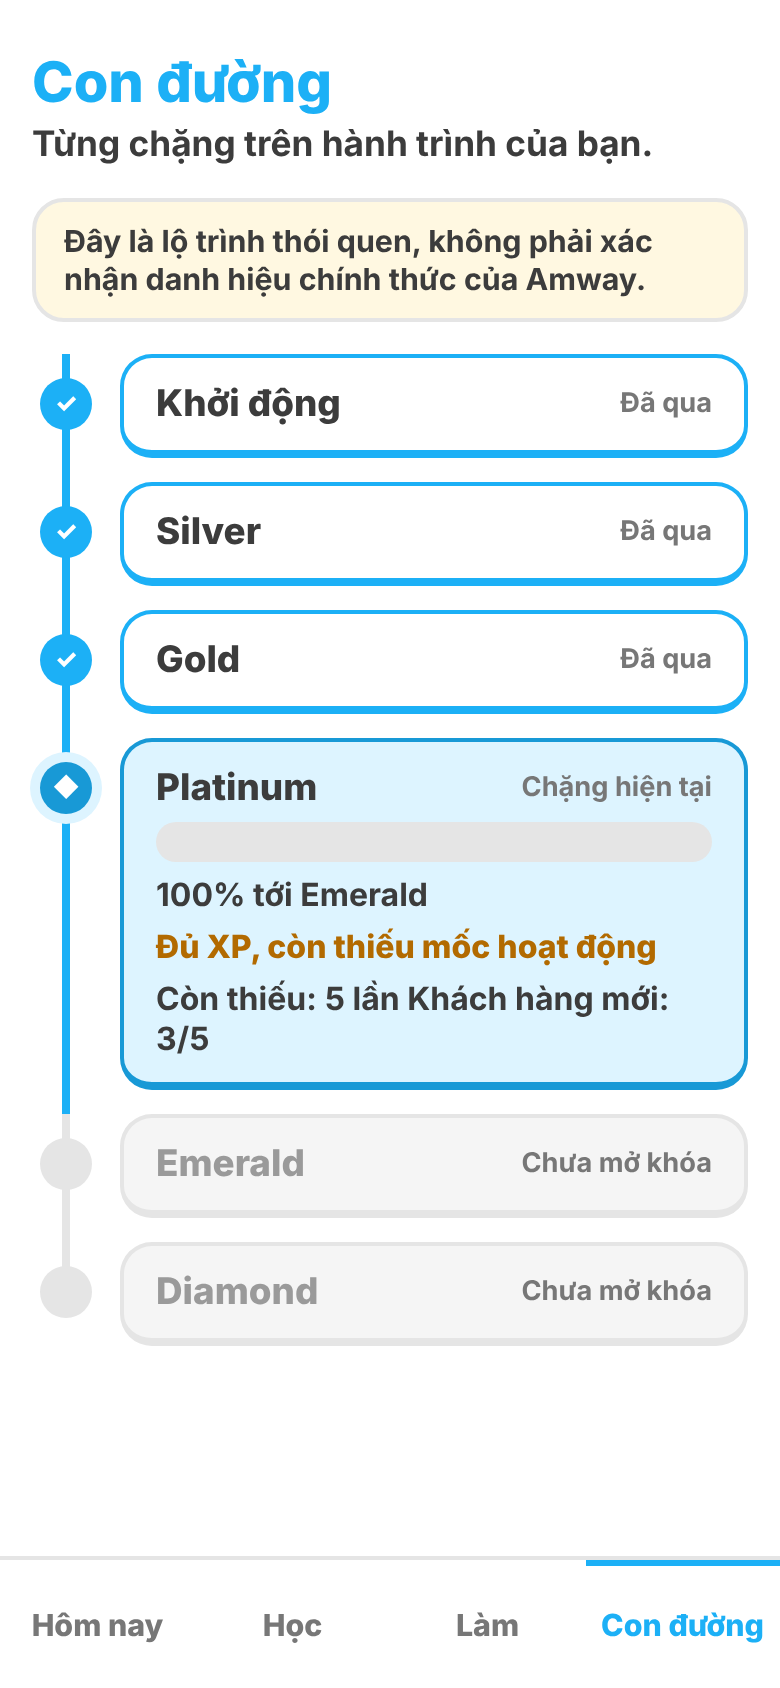
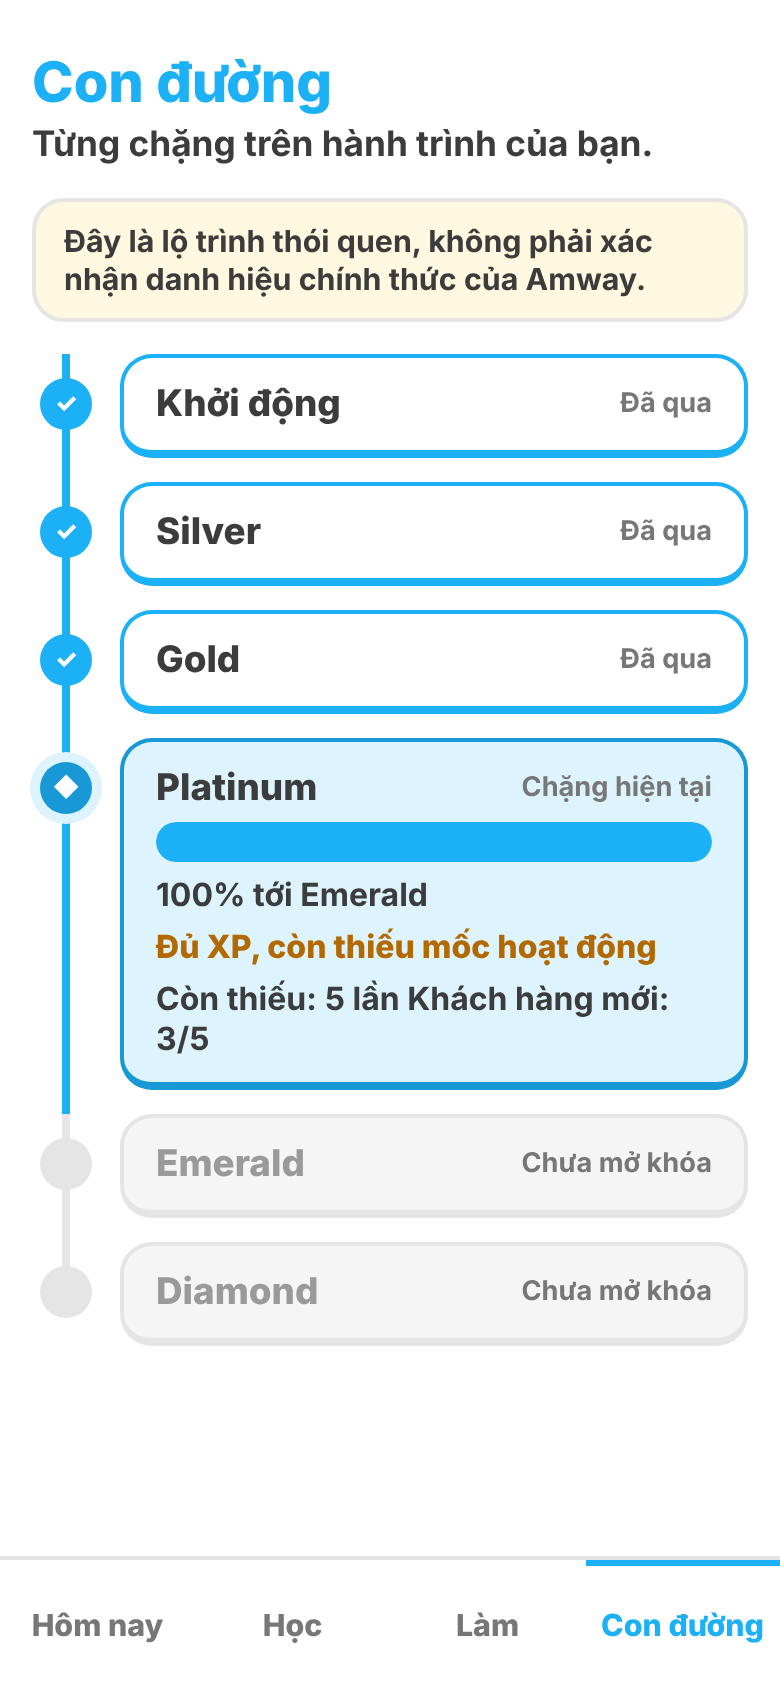
feat: finish Con đường map (progress bar fix) and retake evidence
Story: diamond-challenge-S006 (production/epics/diamond-challenge/story-006-diamond-map.md)

Claude-Session: https://claude.ai/code/session_01N8trRukAdUtow4mzvQDbn7

Changed region(s): [[0.1846, 0.4621, 0.9231, 0.5237]]

diff --git a/production/epics/diamond-challenge/story-006-diamond-map.md b/production/epics/diamond-challenge/story-006-diamond-map.md
@@ -52,12 +52,13 @@
 ## Files
 
 - `src/domain/stages.ts`
-- `src/config/game-config.json`
 - `src/ui/screens/diamond-path-screen.tsx`
-- `tests/unit/progress/stages.test.ts`
-- `production/qa/evidence/story-006-diamond-path.png`
-
----
+- `src/config/game-config.json`
+- `src/app.tsx`
+- `src/ui/screens/today-screen.tsx`
+- `src/ui/strings.ts`
+- `src/ui/styles.css`
+- `tests/unit/stages/stages.test.ts`
 
 ## QA Test Cases
 
